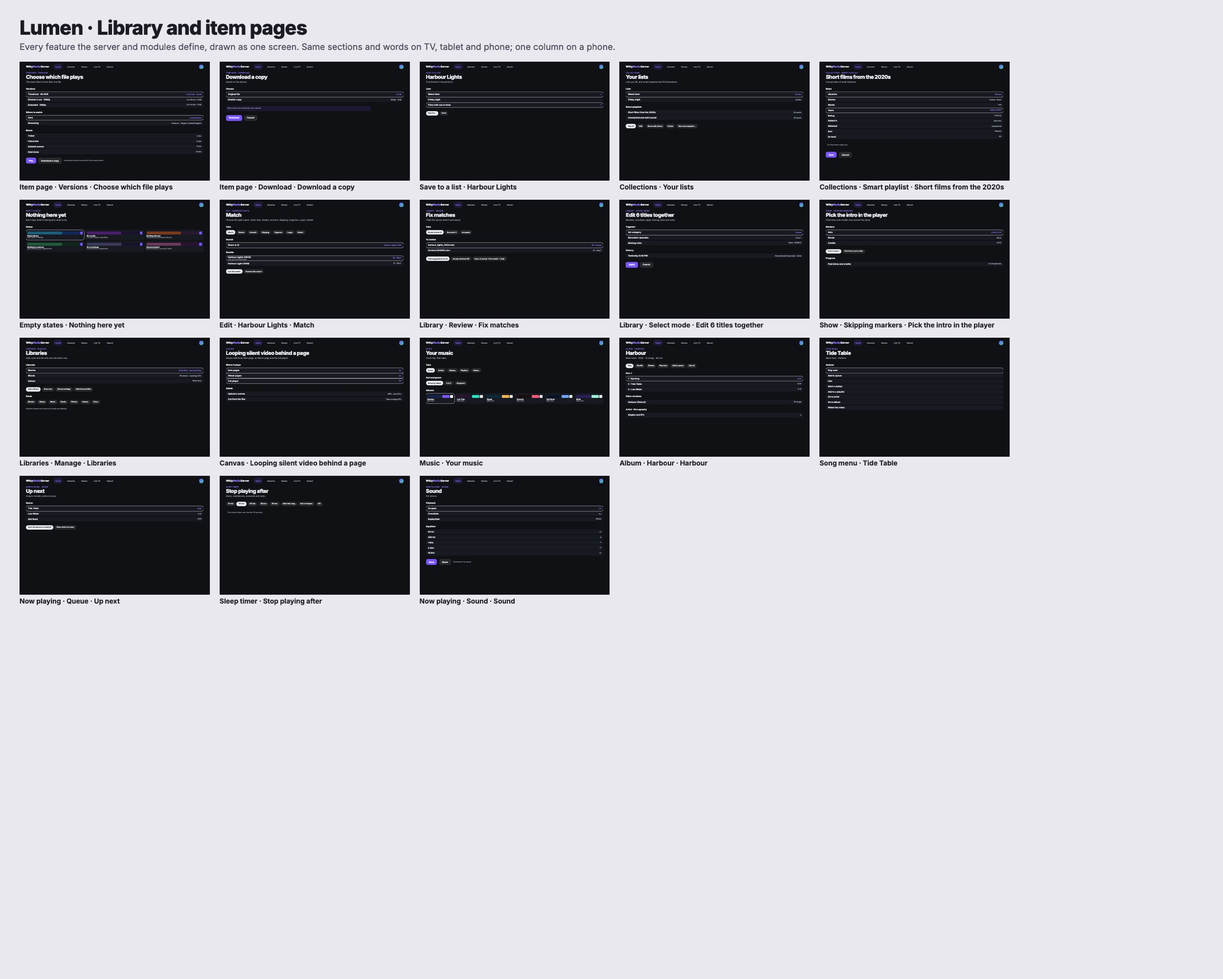
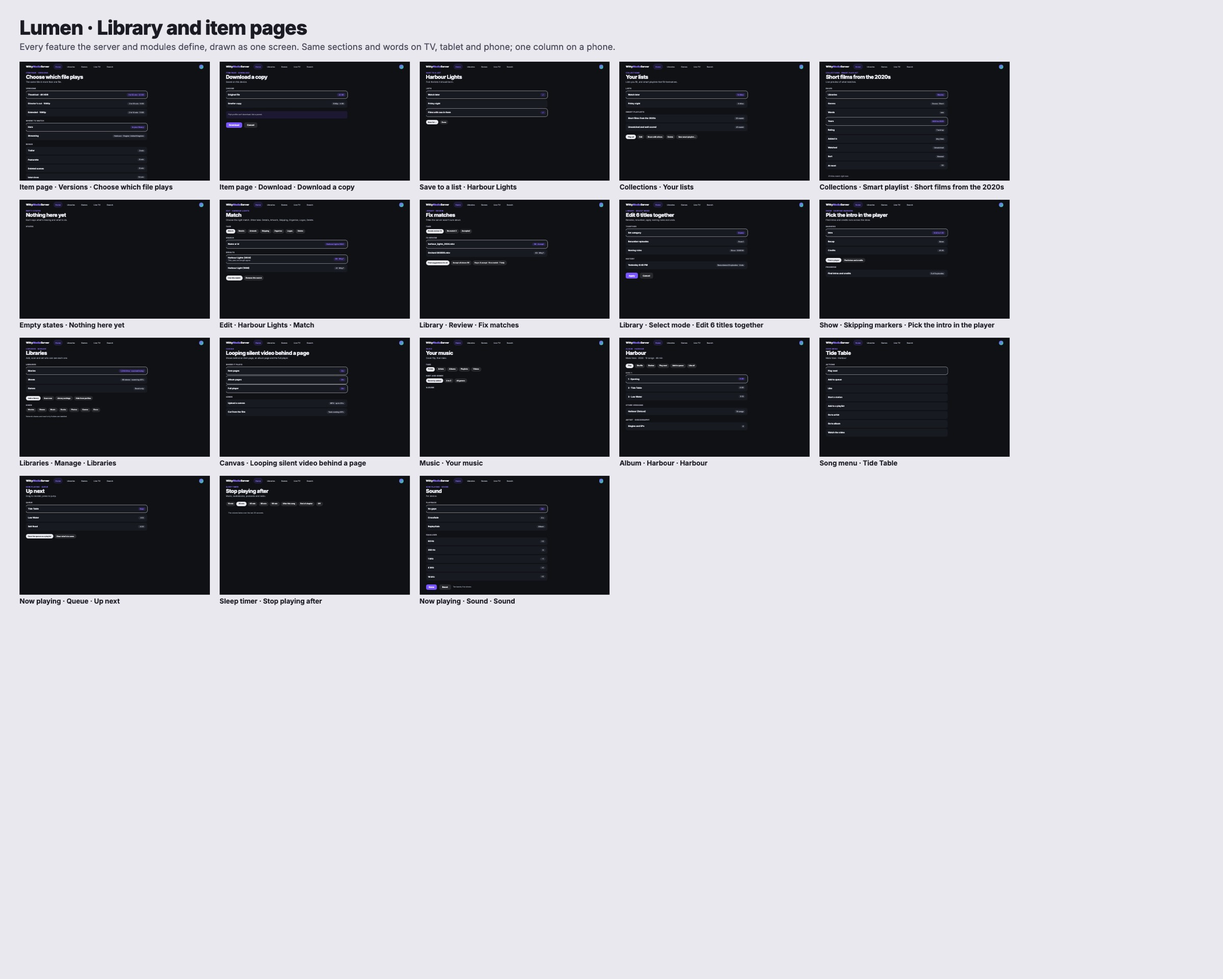
Design 2 canvas: designed Connect screen with peer to peer, layout previews in look pickers, calmer page template

diff --git a/docs/design-2/canvas/Exp.dc.html b/docs/design-2/canvas/Exp.dc.html
@@ -314,18 +314,33 @@ body{margin:0}
         <div style="margin-top:{{gap}}px"><sc-for list="{{songRows}}" as="r" hint-placeholder-count="8"><div style="display:flex;align-items:center;gap:{{gap}}px;height:{{songH}}px;padding:0 {{pad2}}px;margin-bottom:4px;font-size:{{body}}px;{{r.st}}"><span style="width:22px;color:{{r.c2}};font-size:{{small}}px">{{r.n}}</span><span style="flex:none;width:{{thumbH}}px;height:{{thumbH}}px;border-radius:{{thumbR}}px;background:{{r.bg}}"></span><span style="flex:1;min-width:0"><b style="display:block;overflow:hidden;white-space:nowrap;text-overflow:ellipsis">{{r.t}}</b><span style="font-size:{{small}}px;color:{{r.c2}}">{{r.a}}</span></span><span style="width:{{albW}}px;display:{{albD}};overflow:hidden;white-space:nowrap;text-overflow:ellipsis;font-size:{{small}}px;color:{{r.c2}}">{{r.al}}</span><span style="display:{{albD}};font-size:{{small}}px;color:{{r.c2}};width:60px">{{r.pl}}</span><span style="color:{{r.hc}}">{{r.h}}</span><span style="font-size:{{small}}px;color:{{r.c2}};width:40px;text-align:right">{{r.d}}</span></div></sc-for></div>
       </sc-if>
 
+      <sc-if value="{{sConnect}}" hint-placeholder-val="{{false}}">
+        <div style="max-width:{{cnW}};margin:0 auto">
+          <div style="display:flex;align-items:center;font-size:{{h2}}px;font-weight:800;letter-spacing:-.03em;margin-bottom:{{gap2}}px"><sc-for list="{{brand}}" as="p" hint-placeholder-count="3"><span style="{{p.st}}">{{p.t}}</span></sc-for></div>
+          <div style="font-size:{{cnTitleSz}}px;font-weight:800;letter-spacing:-.04em;line-height:1.05;font-family:{{titleFont}}">Choose a server</div>
+          <div style="font-size:{{body}}px;line-height:1.5;color:{{fg2}};margin-top:8px;max-width:940px">Pick a server you’ve used, or one on this network. Away from home? Connect from anywhere below.</div>
+          <div style="{{cnLab}}">Your servers</div>
+          <sc-for list="{{cnServers}}" as="v" hint-placeholder-count="2"><div style="{{v.st}}margin-bottom:10px"><span style="{{v.av}}">{{v.ini}}</span><span style="flex:1;min-width:0"><b style="display:block;font-size:{{body}}px;font-weight:800">{{v.name}}</b><span style="display:block;font-size:{{small}}px;color:{{fg2}};margin-top:2px">{{v.sub}}</span></span><span style="{{v.cs}}">{{v.chip}}</span></div></sc-for>
+          <div style="{{cnLab}}">On this network</div>
+          <sc-for list="{{cnFound}}" as="v" hint-placeholder-count="1"><div style="{{v.st}}"><span style="{{v.av}}">{{v.ini}}</span><span style="flex:1;min-width:0"><b style="display:block;font-size:{{body}}px;font-weight:800">{{v.name}}</b><span style="display:block;font-size:{{small}}px;color:{{fg2}};margin-top:2px">{{v.sub}}</span></span><span style="{{v.cs}}">{{v.chip}}</span></div></sc-for>
+          <div style="{{cnP2p}}">
+            <div style="display:flex;align-items:center;gap:16px"><span style="{{cnIcon}}"><svg width="{{cnSvg}}" height="{{cnSvg}}" viewBox="0 0 24 24" fill="none" stroke="currentColor" style="color:{{accFg}}" stroke-width="1.8" stroke-linecap="round" stroke-linejoin="round"><circle cx="12" cy="12" r="9"></circle><path d="M3 12h18"></path><path d="M12 3c2.6 2.6 3.9 5.6 3.9 9s-1.3 6.4-3.9 9c-2.6-2.6-3.9-5.6-3.9-9S9.4 5.6 12 3z"></path></svg></span><span style="flex:1;min-width:0"><b style="display:block;font-size:{{h2}}px;font-weight:800;letter-spacing:-.02em">Connect from anywhere</b><span style="display:block;font-size:{{body}}px;color:{{fg2}};line-height:1.45;margin-top:4px">Reach your server over the internet with a private peer to peer connection. It’s end to end encrypted, nothing is opened on your router, and only people you invite can join.</span></span></div>
+            <div style="{{cnActsRow}}"><sc-for list="{{cnActs}}" as="a" hint-placeholder-count="3"><span style="{{a.st}}">{{a.t}}</span></sc-for></div>
+          </div>
+        </div>
+      </sc-if>
       <sc-if value="{{sPage}}" hint-placeholder-val="{{false}}">
-        <div style="font-size:{{small}}px;font-weight:700;letter-spacing:.08em;text-transform:uppercase;color:{{accT}}">{{pgEye}}</div>
+        <div style="max-width:{{pgColW}}"><div style="font-size:{{small}}px;font-weight:700;letter-spacing:.08em;text-transform:uppercase;color:{{accT}}">{{pgEye}}</div>
         <div style="font-size:{{h1}}px;font-weight:800;letter-spacing:-.04em;line-height:1.08;margin-top:4px;font-family:{{titleFont}}">{{pgTitle}}</div>
         <div style="font-size:{{body}}px;line-height:1.5;color:{{fg2}};margin-top:6px;max-width:{{pgLeadW}}px">{{pgLead}}</div>
         <sc-for list="{{pgSecs}}" as="sec" hint-placeholder-count="3">
-          <div style="font-size:{{body}}px;font-weight:800;margin:{{gap2}}px 0 {{gap}}px">{{sec.h}}</div>
-          <sc-if value="{{sec.cards}}" hint-placeholder-val="{{false}}"><div style="display:grid;grid-template-columns:repeat({{sec.cols}},minmax(0,1fr));gap:{{pgGap}}px"><sc-for list="{{sec.items}}" as="c" hint-placeholder-count="6"><div style="padding:{{pgCardP}}px;box-sizing:border-box;{{c.st}}"><div style="display:flex;gap:3px;height:{{pgSw}}px"><i style="flex:2;border-radius:5px;background:{{c.bg}}"></i><i style="flex:1;border-radius:5px;background:{{c.bg2}}"></i><i style="width:{{pgSw}}px;border-radius:5px;background:{{c.ac}}"></i></div><div style="font-size:{{small}}px;font-weight:800;margin-top:6px;line-height:1.15">{{c.t}}</div><div style="font-size:{{tiny}}px;opacity:.75;line-height:1.2">{{c.s}}</div></div></sc-for></div></sc-if>
-          <sc-if value="{{sec.rows}}" hint-placeholder-val="{{false}}"><sc-for list="{{sec.items}}" as="r" hint-placeholder-count="5"><div style="display:flex;align-items:center;gap:{{gap}}px;min-height:{{pgRowH}}px;padding:0 {{gap}}px;margin-bottom:5px;font-size:{{body}}px;{{r.st}}"><span style="flex:1;min-width:0"><b style="display:block;font-weight:700">{{r.t}}</b><span style="display:{{r.sd}};font-size:{{tiny}}px;opacity:.7">{{r.s}}</span></span><span style="font-size:{{small}}px;font-weight:700;{{r.vs}}">{{r.v}}</span></div></sc-for></sc-if>
+          <div style="{{pgLab}}">{{sec.h}}</div>
+          <sc-if value="{{sec.cards}}" hint-placeholder-val="{{false}}"><div style="display:grid;grid-template-columns:repeat({{sec.cols}},minmax(0,1fr));gap:{{pgGap}}px"><sc-for list="{{sec.items}}" as="c" hint-placeholder-count="6"><div style="padding:{{pgCardP}}px;box-sizing:border-box;{{c.st}}"><sc-if value="{{c.hasWire}}" hint-placeholder-val="{{false}}"><div style="position:relative;overflow:hidden;border-radius:6px;margin-bottom:6px;height:{{c.th}}px;{{c.tbg}}"><sc-for list="{{c.wire}}" as="w" hint-placeholder-count="14"><i style="position:absolute;{{w.st}}"></i></sc-for></div></sc-if><sc-if value="{{c.hasSw}}" hint-placeholder-val="{{true}}"><div style="display:flex;gap:3px;height:{{pgSw}}px"><i style="flex:2;border-radius:5px;background:{{c.bg}}"></i><i style="flex:1;border-radius:5px;background:{{c.bg2}}"></i><i style="width:{{pgSw}}px;border-radius:5px;background:{{c.ac}}"></i></div></sc-if><sc-if value="{{c.hasIcon}}" hint-placeholder-val="{{false}}"><span style="{{c.icSt}}">{{c.ic}}</span></sc-if><div style="font-size:{{small}}px;font-weight:800;margin-top:6px;line-height:1.15">{{c.t}}</div><div style="font-size:{{tiny}}px;opacity:.75;line-height:1.2">{{c.s}}</div></div></sc-for></div></sc-if>
+          <sc-if value="{{sec.rows}}" hint-placeholder-val="{{false}}"><sc-for list="{{sec.items}}" as="r" hint-placeholder-count="5"><div style="display:flex;align-items:center;gap:{{gap}}px;min-height:{{pgRowH}}px;padding:{{pgRowPadV}}px {{gap}}px;margin-bottom:{{pgRowGap}}px;font-size:{{body}}px;{{r.st}}"><span style="flex:1;min-width:0"><b style="display:block;font-weight:700">{{r.t}}</b><span style="display:{{r.sd}};font-size:{{small}}px;color:{{fg2}};margin-top:2px;line-height:1.35">{{r.s}}</span></span><span style="{{r.vs}}">{{r.v}}</span></div></sc-for></sc-if>
           <sc-if value="{{sec.chips}}" hint-placeholder-val="{{false}}"><div style="display:flex;gap:8px;flex-wrap:wrap"><sc-for list="{{sec.items}}" as="c" hint-placeholder-count="5"><span style="display:inline-flex;align-items:center;height:{{chipH}}px;padding:0 {{gap}}px;font-size:{{small}}px;font-weight:700;{{c.st}}">{{c.t}}</span></sc-for></div></sc-if>
           <sc-if value="{{sec.note}}" hint-placeholder-val="{{false}}"><div style="font-size:{{small}}px;line-height:1.5;color:{{fg2}};max-width:{{pgLeadW}}px;padding:{{pgNoteP}}px;{{sec.nst}}">{{sec.text}}</div></sc-if>
         </sc-for>
-        <div style="display:flex;gap:{{gap}}px;margin-top:{{gap2}}px;align-items:center;flex-wrap:wrap"><sc-for list="{{pgActs}}" as="a" hint-placeholder-count="3"><span style="display:inline-flex;align-items:center;height:{{btnH}}px;padding:0 {{btnP}}px;font-size:{{btnF}}px;font-weight:700;{{a.st}}">{{a.t}}</span></sc-for><span style="font-size:{{small}}px;color:{{fg2}}">{{pgFoot}}</span></div>
+        <div style="display:flex;gap:{{gap}}px;margin-top:{{gap2}}px;align-items:center;flex-wrap:wrap"><sc-for list="{{pgActs}}" as="a" hint-placeholder-count="3"><span style="display:inline-flex;align-items:center;height:{{btnH}}px;padding:0 {{btnP}}px;font-size:{{btnF}}px;font-weight:700;{{a.st}}">{{a.t}}</span></sc-for><span style="font-size:{{small}}px;color:{{fg2}}">{{pgFoot}}</span></div></div>
       </sc-if>
 
       <sc-if value="{{sGuide}}" hint-placeholder-val="{{false}}">
@@ -899,20 +914,41 @@ class Component extends DCLogic {
     const pgChip = (on) => on ? (aero ? glossBtn : (crt ? 'background:#ffff00;color:#000;' : (cable ? 'background:#ffd84a;color:#08125e;' : 'background:' + E.fg + ';color:' + E.bg + ';border-radius:999px;'))) : (aero ? glassItem : (crt ? 'background:#0000a8;color:#fff;' : (cable ? 'background:#0f2bb8;color:#fff;border:2px solid #7f95ff;' : 'background:' + this.hexA('#808080', .22) + ';color:' + E.fg + ';border-radius:999px;')));
     const pgRowSt = (on) => (aero ? glassItem.replace('999px', E.rad + 'px') : 'background:' + (crt ? '#00005a' : (cable ? '#0f2bb8' : E.bg2)) + ';border-radius:' + E.rad + 'px;' + (cable ? 'border:2px solid #4a62d8;' : '')) + (on ? 'box-shadow:0 0 0 ' + ringW + 'px ' + (aero ? E.acc : E.fg) + ';' : '');
     const uiList = [['Lumen', 'Quiet cinema', 'witty'], ['Rail', 'Library first', 'cinema'], ['Stage', 'Streaming', 'midnight'], ['Aero', 'Glossy glass', 'aeroDay'], ['Classic', 'Sidebar', 'witty'], ['Classic Cable', 'Blue listings', 'cable'], ['Classic Satellite', 'Silver bars', 'satellite'], ['Compact', 'Dense lists', 'trueblack'], ['Paper', 'Editorial', 'paper'], ['Marquee', 'Poster carousel', 'cinema'], ['Crossbar', 'Console style', 'evergreen'], ['Big picture', 'Easy to see', 'highcontrast'], ['Dashboard', 'Widgets', 'midnight'], ['Retro', 'Teletext', 'teletext']];
-    const uiCards = (sel) => uiList.map((u, i) => { const t = TH[u[2]]; return { t: u[0], s: u[1] + ' · ' + t.name, bg: t.bg, bg2: t.bg3, ac: t.acc, st: pgCardSt(i === sel) }; });
+    const wireSpec = { Lumen: ['top', 'hero'], Rail: ['rail', 'banner'], Stage: ['top', 'hero'], Aero: ['top', 'hero'], Classic: ['side', 'hero'], 'Classic Cable': ['top', 'list'], 'Classic Satellite': ['top', 'hero'], Compact: [tvp ? 'side' : 'rail', 'list'], Paper: ['top', 'banner'], Marquee: ['top', 'carousel'], Crossbar: ['none', 'cross'], 'Big picture': ['top', 'tiles'], Dashboard: [tvp ? 'side' : 'rail', 'widgets'], Retro: ['top', 'list'] };
+    const wireFor = (name, t) => {
+      const sp = wireSpec[name] || ['top', 'hero'], nav = phone ? 'bottom' : sp[0], mode = sp[1];
+      const W = (l, tp, w, h, bg, r) => ({ st: 'left:' + l + '%;top:' + tp + '%;width:' + w + '%;height:' + h + '%;background:' + bg + ';border-radius:' + (r === undefined ? 3 : r) + 'px;' });
+      const out = [], line = this.hexA(t.fg2 || t.fg, .55), pan = t.bg3, ac = t.acc;
+      let x0 = 4, y0 = 6, x1 = 96, y1 = 94;
+      if (nav === 'top') { out.push(W(0, 0, 100, 12, pan, 0), W(3, 3.5, 10, 5, ac, 2)); [20, 32, 44, 56].forEach((x, i) => out.push(W(x, 4.5, 9, 3, i === 0 ? ac : line, 2))); out.push(W(90, 3.5, 5, 5, line, 5)); y0 = 17; }
+      else if (nav === 'side') { out.push(W(0, 0, 22, 100, pan, 0), W(3, 5, 14, 5, ac, 2)); [20, 31, 42, 53, 64].forEach((y, i) => out.push(W(4, y, 14, 3.5, i === 0 ? ac : line, 2))); x0 = 26; }
+      else if (nav === 'rail') { out.push(W(0, 0, 10, 100, pan, 0), W(2, 5, 6, 8, ac, 3)); [24, 36, 48, 60, 72].forEach((y, i) => out.push(W(2.5, y, 5, 7, i === 0 ? ac : line, 3))); x0 = 14; }
+      else if (nav === 'bottom') { out.push(W(0, 88, 100, 12, pan, 0)); [14, 38, 62, 84].forEach((x, i) => out.push(W(x, 91, 6, 6, i === 0 ? ac : line, 3))); y1 = 85; }
+      else { out.push(W(3, 4, 12, 5, ac, 2)); [34, 44, 54, 64].forEach((x, i) => out.push(W(x, 6, i === 1 ? 8 : 5, i === 1 ? 14 : 9, i === 1 ? ac : line, 20))); y0 = 26; }
+      const cw = x1 - x0, ch = y1 - y0;
+      if (mode === 'hero') { out.push(W(x0, y0, cw, ch * .52, pan, 4), W(x0 + 3, y0 + ch * .34, cw * .2, 6, ac, 3)); const n = 4, g = 2, w = (cw - g * (n - 1)) / n; for (let k = 0; k < n; k++) out.push(W(x0 + k * (w + g), y0 + ch * .58, w, ch * .38, pan, 3)); }
+      else if (mode === 'banner') { out.push(W(x0, y0, cw, ch * .3, pan, 3), W(x0 + 3, y0 + ch * .18, cw * .2, 5, ac, 3)); const n = 5, g = 2, w = (cw - g * (n - 1)) / n; for (let r = 0; r < 2; r++) for (let k = 0; k < n; k++) out.push(W(x0 + k * (w + g), y0 + ch * (.36 + r * .32), w, ch * .26, pan, 3)); }
+      else if (mode === 'carousel') { const mid = x0 + cw / 2; out.push(W(mid - cw * .13, y0 + ch * .08, cw * .26, ch * .72, pan, 4), W(mid - cw * .13, y0 + ch * .08, cw * .26, ch * .72, this.hexA(ac, .25), 4), W(mid - cw * .34, y0 + ch * .2, cw * .17, ch * .5, pan, 4), W(mid + cw * .17, y0 + ch * .2, cw * .17, ch * .5, pan, 4), W(mid - 8, y0 + ch * .9, 4, 3, ac, 3), W(mid, y0 + ch * .9, 4, 3, line, 3), W(mid + 8, y0 + ch * .9, 4, 3, line, 3)); }
+      else if (mode === 'cross') { [14, 30, 46, 62, 78].forEach((x, i) => out.push(W(x0 + cw * x / 100, y0 + (i === 2 ? 0 : 3), i === 2 ? 11 : 8, i === 2 ? 17 : 12, i === 2 ? ac : line, 20))); for (let r = 0; r < 4; r++) out.push(W(x0 + cw * .22, y0 + ch * (.4 + r * .15), cw * .56, ch * .1, r === 0 ? pan : this.hexA(t.bg3, .6), 3)); }
+      else if (mode === 'tiles') { const g = 3, w = (cw - g * 2) / 3; for (let r = 0; r < 2; r++) for (let k = 0; k < 3; k++) out.push(W(x0 + k * (w + g), y0 + r * (ch * .5 + 1), w, ch * .46, k === 0 && r === 0 ? ac : pan, 6)); }
+      else if (mode === 'widgets') { out.push(W(x0, y0, cw * .5, ch * .5, pan, 4), W(x0 + cw * .52, y0, cw * .48, ch * .24, pan, 4), W(x0 + cw * .52, y0 + ch * .26, cw * .48, ch * .24, ac, 4), W(x0, y0 + ch * .53, cw, ch * .22, pan, 4), W(x0, y0 + ch * .78, cw * .3, ch * .2, pan, 4), W(x0 + cw * .32, y0 + ch * .78, cw * .3, ch * .2, pan, 4), W(x0 + cw * .64, y0 + ch * .78, cw * .36, ch * .2, pan, 4)); }
+      else { for (let r = 0; r < 6; r++) { out.push(W(x0, y0 + r * (ch / 6.2), cw * .08, ch / 8, r === 0 ? ac : line, 1), W(x0 + cw * .11, y0 + r * (ch / 6.2), cw * (.5 + (r % 3) * .1), ch / 8, r === 0 ? pan : this.hexA(t.bg3, .7), 1)); } }
+      return out;
+    };
+    const uiCards = (sel) => uiList.map((u, i) => { const t = TH[u[2]]; return { t: u[0], s: u[1] + ' · ' + t.name, bg: t.bg, bg2: t.bg3, ac: t.acc, st: pgCardSt(i === sel), wire: wireFor(u[0], t), hasWire: true, th: Math.round(P.small * (phone ? 7 : 8.5)), tbg: 'background:' + t.bg + ';' }; });
     const thList = [['witty', 'Witty'], ['midnight', 'Midnight'], ['cinema', 'Cinema'], ['evergreen', 'Evergreen'], ['trueblack', 'True black'], ['light', 'Light'], ['paper', 'Paper'], ['highcontrast', 'High contrast'], ['aeroDay', 'Aero Day'], ['aeroAurora', 'Aero Aurora'], ['aeroMeadow', 'Aero Meadow'], ['aeroSunset', 'Aero Sunset'], ['cable', 'Cable blue'], ['satellite', 'Satellite'], ['teletext', 'Teletext']];
     const themeCards = (sel, extra) => thList.map((u, i) => { const t = TH[u[0]]; return { t: u[1], s: t.dark ? 'Dark' : 'Light', bg: t.bg, bg2: t.bg3, ac: t.acc, st: pgCardSt(i === sel) }; }).concat(extra ? [{ t: 'Sunrise', s: 'Imported · by Pip', bg: '#ffe2b8', bg2: '#ffb36b', ac: '#ff6a3d', st: pgCardSt(false) }, { t: 'Import a theme…', s: 'ZIP or theme file', bg: 'transparent', bg2: 'transparent', ac: 'transparent', st: pgCardSt(false) + 'border:2px dashed ' + this.hexA('#808080', .6) + ';' }] : []);
-    const R = (t, v, on, s) => ({ t, v: v || '', s: s || '', sd: s ? 'block' : 'none', st: pgRowSt(on), vs: 'color:' + (on ? E.accT : E.fg2) + ';' });
+    const R = (t, v, on, s) => ({ t, v: v || '', s: s || '', sd: s ? 'block' : 'none', st: pgRowSt(on), vs: 'flex:none;padding:4px 12px;border-radius:999px;font-size:' + P.small + 'px;font-weight:700;display:' + (v ? 'inline-block' : 'none') + ';' + (on ? 'background:' + this.hexA(E.acc, .2) + ';color:' + E.accT + ';' : 'background:' + this.hexA(E.fg, .09) + ';color:' + E.fg2 + ';') });
     const Cc = (t, on) => ({ t, st: pgChip(on) });
     const cols4 = phone ? 2 : (plat === 'tablet' ? 3 : 4);
-    const secC = (h, items, cols) => ({ h, cards: true, rows: false, chips: false, note: false, cols: cols || cols4, items });
+    const secC = (h, items, cols) => ({ h, cards: true, rows: false, chips: false, note: false, cols: cols || cols4, items: items.map((it) => (Object.assign({ hasSw: !!it.bg, hasIcon: !it.bg, ic: (it.t || '?').charAt(0), icSt: 'flex:none;width:' + Math.round(P.small * 2.6) + 'px;height:' + Math.round(P.small * 2.6) + 'px;border-radius:50%;display:flex;align-items:center;justify-content:center;font-size:' + P.body + 'px;font-weight:800;background:' + this.hexA(E.acc, .22) + ';color:' + E.accT + ';' }, it.wire ? it : { wire: [], hasWire: false, th: 0, tbg: '' }, it.wire ? {} : {}))) });
     const secR = (h, items) => ({ h, cards: false, rows: true, chips: false, note: false, cols: 1, items });
     const secP = (h, items) => ({ h, cards: false, rows: false, chips: true, note: false, cols: 1, items });
     const secN = (h, text, tone) => ({ h, cards: false, rows: false, chips: false, note: true, cols: 1, items: [], text, nst: tone ? 'background:' + this.hexA(E.acc, .12) + ';border-radius:' + Math.round(E.rad * 0.7) + 'px;' : '' });
     const stepNames = ['Welcome', 'Account', 'Name and address', 'Look', 'Theme', 'Modules', 'Libraries', 'Details and artwork', 'Live TV', 'Games', 'Discs', 'People and rules', 'Remote access and apps', 'Ready'];
     const stepN = Math.max(1, Math.min(14, parseInt(this.props.step || '4', 10)));
     const setupData = [
-      ['Welcome', 'Let’s set up your server', 'This takes a few minutes. You do it here, in a web browser. Apps can’t connect until it’s finished, and nothing goes online unless you agree.', [secR('Language and region', [R('Language', 'English', true), R('Time zone', 'Eastern Time', false)]), secN('', 'Setup runs in a web browser on any computer or phone on your network. Apps show how to reach this page until you’re done.', true)]],
+      ['Welcome', 'Let’s set up your server', 'This takes a few minutes. You do it here, in a web browser. Apps can’t connect until it’s finished, and nothing goes online unless you agree.', [secR('Region', [R('Time zone', 'Eastern Time', true, 'Used for the TV guide, schedules and recordings')]), secN('', 'Setup runs in a web browser on any computer or phone on your network. Apps show how to reach this page until you’re done.', true)]],
       ['Your account', 'Make the administrator account', 'This account manages the server. You can add everyone else later.', [secR('You', [R('Name', 'Willow', true), R('Username', 'willow', false), R('Password', '••••••••••', false), R('Two-step sign-in', 'Recommended', false, 'Use an authenticator app or a passkey')])]],
       ['Name and address', 'Name your server', 'The name appears in every app. Choose its colours, and what shows in small spaces.', [secR('Name', [R('Server name', 'WittyMediaServer', true), R('Colours', 'Accent on “Media”', false), R('Mark in the rail', 'W', false, 'A letter, initials or a square logo')]), secR('Network', [R('Port', '9797', false), R('Find this server automatically', 'On', true), R('Encrypted connections', 'Off', false, 'Needs a certificate')])]],
       ['Look', 'Choose how it looks', 'A look is the layout, shapes and feel. It works on TVs, phones, tablets, computers and headsets. Colours are a separate choice, next.', [secC('Looks', uiCards(0), phone ? 2 : 5), secN('', 'Each look suggests a theme and a WittyTV look. People can pick their own later, unless you require one.', false)]],
@@ -941,7 +977,7 @@ class Component extends DCLogic {
     const mk = (eye, title, lead, secs, acts, foot) => ({ eye, title, lead, secs, acts: acts || [], foot: foot || '' });
     const A1 = (t) => ({ t, st: primary }), A2 = (t) => ({ t, st: secondary });
     const gp = {
-      connect: mk('Welcome', 'Choose your server', 'Saved servers come first. Servers found on your network are below.', [secR('Saved', [R('WittyMediaServer', 'Last used', true, 'Living room · 192.168.1.20 · Willow'), R('Gran’s server', '', false, 'From away · peer to peer')]), secR('Found on this network', [R('Basement NAS', '', false, '192.168.1.31')]), secP('', [Cc('Enter an address', false), Cc('Join from away', false), Cc('Scan a QR code', false)]), secR('On this device', [R('Show saved servers first', 'On', true), R('Forget a server', '', false, 'Removes its sign-in and downloads from this device')])], [A1('Connect')], ''),
+      connect: mk('Welcome', 'Choose your server', 'Saved servers come first, then servers on this network. Not at home? Connect to a remote server from anywhere with peer to peer.', [secR('Saved', [R('WittyMediaServer', 'Last used', true, 'Living room · 192.168.1.20 · Willow'), R('Gran’s server', 'From away', false, 'Peer to peer · remote')]), secR('Found on this network', [R('Basement NAS', '', false, '192.168.1.31')]), secC('Connect to a remote server', [{ t: 'Join with a link or code', s: 'Paste the invite you were sent', bg: '#14224a', bg2: '#2f6fed', ac: '#fff', st: pgCardSt(true) }, { t: 'Scan a QR code', s: 'From the server’s Away page', bg: '#0d2a3a', bg2: '#2de2c4', ac: '#fff', st: pgCardSt(false) }, { t: 'Enter an address', s: 'Your own domain or IP', bg: '#2a1230', bg2: '#7955ff', ac: '#fff', st: pgCardSt(false) }], phone ? 1 : 3), secN('', 'Peer to peer connects your device straight to your server, end to end encrypted. Nothing is opened on your router, and only people you invite can join.', true), secR('On this device', [R('Show saved servers first', 'On', true), R('Forget a server', '', false, 'Removes its sign-in and downloads from this device')])], [A1('Connect')], 'You can also reach this from You > From away once you are signed in.'),
       away: mk('You · From away', 'Reach your server from anywhere', 'A private, peer-to-peer connection between your devices. Nothing is opened on your router.', [secR('Connection', [R('Peer to peer', 'On', true, 'Between your devices, end to end encrypted'), R('Connected to', 'WittyMediaServer', false, 'Direct · 24 ms')]), secP('Invite someone', [Cc('Create an invite link', true), Cc('Show a QR code', false)]), secP('Join', [Cc('Paste a link or code', false), Cc('Scan a QR code', false)]), secN('', 'Only people you invite can join. You can end an invite or remove a device at any time.', true)], [A1('Done')], ''),
       mismatch: mk('Careful', 'This isn’t the server you used before', 'The address is the same, but the server’s identity changed. This can happen after a reinstall, or if someone is pretending to be your server.', [secR('Identity', [R('Saved', 'a4f2 · 91c0', false), R('Now', '77be · 02d4', true)]), secN('', 'Only continue if you reinstalled or restored this server yourself.', true)], [A2('Go back'), A1('Trust this server')], ''),
       pairing: mk('Sign in a TV', 'Enter the code on your TV', 'Open WittyMediaServer on the TV, choose Sign in with a code, and type what it shows.', [secR('Code', [R('Code', '4 8 1 • 2 0 6', true), R('Signing in as', 'Pip', false, 'Kids profile · Lumen look, Cinema theme (required)')]), secP('', [Cc('Approve', true), Cc('Not this TV', false)]), secN('', 'The code works once, for five minutes.', false)], [], ''),
@@ -1092,6 +1128,23 @@ class Component extends DCLogic {
       roomopen: mk('WittyPlay · Your room', 'Open your room to friends', 'Star Tide · 2 of 4 seats', [secR('Room', [R('Code', 'TIDE-4821', true), R('Open to', 'Friends', false), R('Seats', '2 of 4', false), R('Mode', 'Shared', false)]), secP('', [Cc('Invite a friend', true), Cc('Show QR join link', false), Cc('Close the room', false)]), secR('Players', [R('Player 1 · Willow', 'Gamepad', true), R('Player 2', 'Waiting…', false)])], [], 'A phone joins a seat from the QR link and becomes a controller.'),
       keepshot: mk('WittyPlay · Memories', 'Keep this screenshot', 'Saved to Memories with the game and the time.', [secR('Screenshot', [R('Star Tide', 'Just now', true)]), secP('', [Cc('Keep', true), Cc('Not now', false)]), secR('In Memories', [R('SHOT · Moth Racer', 'This week', false), R('SAVE · Salt Road Kart', 'This week', false)]), secP('Manage', [Cc('Delete this memory', false)])], [], 'Deleting a memory asks first.')
     };
+    const cnW = phone ? 'none' : (tvp ? '1240px' : '780px'), cnR = phone ? 18 : 22;
+    const cnLine = this.hexA(E.fg, .12), cnPanel = E.bg2;
+    const cnRow = (on) => 'display:flex;align-items:center;gap:' + (phone ? 12 : 16) + 'px;padding:' + (tvp ? 14 : (phone ? 12 : 14)) + 'px ' + (tvp ? 24 : (phone ? 14 : 18)) + 'px;border-radius:' + cnR + 'px;background:' + cnPanel + ';box-sizing:border-box;' + (on ? 'box-shadow:0 0 0 ' + ringW + 'px ' + (aero ? E.acc : E.fg) + ';' : 'box-shadow:inset 0 0 0 1px ' + cnLine + ';');
+    const cnAv = (c) => 'flex:none;width:' + (tvp ? 64 : (phone ? 44 : 52)) + 'px;height:' + (tvp ? 64 : (phone ? 44 : 52)) + 'px;border-radius:50%;display:flex;align-items:center;justify-content:center;font-size:' + (tvp ? 26 : 20) + 'px;font-weight:800;color:' + E.accFg + ';background:' + c + ';';
+    const cnChip = (hi) => 'flex:none;padding:5px 12px;border-radius:999px;font-size:' + P.small + 'px;font-weight:700;' + (hi ? 'background:' + this.hexA(E.acc, .2) + ';color:' + E.accT + ';' : 'background:' + this.hexA(E.fg, .09) + ';color:' + E.fg2 + ';');
+    const cnServers = [
+      { ini: 'W', name: 'WittyMediaServer', sub: 'Living room · 192.168.1.20 · signed in as Willow', chip: 'Home network', dot: '#3ad29f', st: cnRow(true), av: cnAv(E.acc), cs: cnChip(false) },
+      { ini: 'G', name: 'Gran’s server', sub: 'From anywhere · last connected yesterday', chip: 'Peer to peer', dot: '#7fb2ff', st: cnRow(false), av: cnAv('#4a8bff'), cs: cnChip(true) }
+    ];
+    const cnFound = [{ ini: 'B', name: 'Basement NAS', sub: '192.168.1.31 · found just now', chip: 'Connect', dot: '#3ad29f', st: cnRow(false), av: cnAv('#7a7f8a'), cs: cnChip(true) }];
+    const cnBtn = (kind) => 'display:flex;align-items:center;justify-content:center;gap:10px;flex:' + (phone ? 'none' : '1') + ';min-width:0;height:' + (tvp ? 64 : (phone ? 52 : 52)) + 'px;border-radius:' + (phone ? 14 : 16) + 'px;font-size:' + (tvp ? 24 : P.body) + 'px;font-weight:800;box-sizing:border-box;' + (kind === 'p' ? 'background:' + E.acc + ';color:' + E.accFg + ';' : 'background:' + this.hexA(E.fg, .1) + ';color:' + E.fg + ';box-shadow:inset 0 0 0 1px ' + this.hexA(E.fg, .16) + ';');
+    const cnActs = [{ t: 'Join with a link or code', st: cnBtn('p') + (tvp ? 'box-shadow:0 0 0 ' + ringW + 'px ' + E.fg + ';' : '') }, { t: 'Scan a QR code', st: cnBtn('s') }, { t: 'Enter an address', st: cnBtn('s') }];
+    const cnP2p = 'margin-top:' + (phone ? 22 : (tvp ? 22 : 30)) + 'px;padding:' + (tvp ? 24 : (phone ? 18 : 26)) + 'px;border-radius:' + (cnR + 4) + 'px;box-sizing:border-box;background:linear-gradient(135deg,' + this.hexA(E.acc, .28) + ',' + this.hexA(E.acc, .06) + ' 70%);box-shadow:inset 0 0 0 1px ' + this.hexA(E.acc, .45) + ';';
+    const cnIcon = 'flex:none;width:' + (tvp ? 72 : (phone ? 46 : 56)) + 'px;height:' + (tvp ? 72 : (phone ? 46 : 56)) + 'px;border-radius:50%;display:flex;align-items:center;justify-content:center;background:' + E.acc + ';';
+    const cnLab = 'font-size:' + P.small + 'px;font-weight:800;letter-spacing:.09em;text-transform:uppercase;color:' + E.fg2 + ';margin:' + (phone ? 22 : (tvp ? 16 : 28)) + 'px 0 8px;';
+    const cnActsRow = 'display:flex;gap:12px;margin-top:20px;flex-direction:' + (phone ? 'column' : 'row') + ';';
+    const cnTitleSz = tvp ? 48 : (phone ? 30 : 40);
     const gapKinds = Object.keys(gp);
     if (gapKinds.indexOf(scr) >= 0) { const d = gp[scr]; pgPage = { eye: d.eye, title: d.title, lead: d.lead, secs: d.secs, acts: d.acts, foot: d.foot }; }
     const steps = stepNames.map((t, i) => ({ t, n: i + 1, st: i + 1 === stepN ? 'background:' + A(.16) + ';color:' + E.accT + ';border-radius:' + Math.round(E.rad * 0.7) + 'px;' : (i + 1 < stepN ? 'color:' + E.fg + ';' : 'color:' + E.fg2 + ';'), dot: i + 1 < stepN ? 'background:' + E.acc + ';color:' + E.accFg + ';' : (i + 1 === stepN ? 'background:' + E.accT + ';color:' + E.bg + ';' : 'background:' + this.hexA('#808080', .3) + ';') }));
@@ -1255,14 +1308,14 @@ class Component extends DCLogic {
       npArt: P.npArt, npArt2: P.npArt2, games, gameW: P.gameW,
       chGap: Math.round(P.gap * 0.6), logoW, logoH, logoR: Math.max(3, Math.round(logoH * 0.14)), logoF: Math.max(9, Math.round(logoH * 0.34)), nameDisp: phone ? 'none' : '-webkit-box', cellP: Math.round(P.gap * 0.6), logoBW, logoBH, logoBF: Math.max(11, Math.round(logoBH * 0.19)), logoBig: 'background:linear-gradient(135deg,#0f2a5a,#1f6f9f);color:#ffd84a;',
       tvActs, mCastW: tvp ? 90 : P.castW, descW, descLines, mW, mH, mX, mY, mPad, mStyle, mBtnQuiet, mActs, mTabs, mCols, mCast, trW, trH, trP, trP2, mTrailers, mWhere, mRowH, mIc, mPosW, mPosH, wBadge, wMiniW, wBanX, wBanY, wBanSt, wMiniSt, wMini, wMiniH, wActs,
-      pgEye: pgPage.eye, pgTitle: pgPage.title, pgLead: pgPage.lead, pgSecs: pgPage.secs, pgActs: pgPage.acts, pgFoot: pgPage.foot, pgLeadW: Math.round(cw * 0.8), pgGap: Math.round(P.gap * 0.7), pgCardP: Math.round(P.gap * 0.6), pgSw: Math.round(P.small * 1.6), pgRowH: Math.round(P.viewH * 0.8), pgNoteP: Math.round(P.gap * 0.7), steps, stepW, stepTop: brH + P.gap2, stepH: Math.round(P.small * 2.2), stepDot: Math.round(P.small * 1.5), stepDisp: phone ? 'none' : 'block', brH, urlW: Math.round(ww * 0.4), urlH: Math.round(P.small * 1.5), blkW: Math.round(ww * 0.6), blkCard: pgCardSt(false), qrS: Math.round(P.btnH * 2), qrC: Math.max(6, Math.round(P.btnH * 0.2)),
+      pgEye: pgPage.eye, pgTitle: pgPage.title, pgLead: pgPage.lead, pgSecs: pgPage.secs, pgActs: pgPage.acts, pgFoot: pgPage.foot, pgLeadW: Math.round(cw * 0.8), pgGap: Math.round(P.gap * 0.7), pgCardP: Math.round(P.gap * 0.6), pgSw: Math.round(P.small * 1.6), pgRowH: Math.round(P.viewH * 0.8), pgNoteP: Math.round(P.gap * 1.1), pgColW: phone ? 'none' : (tvp ? Math.round(cw * 0.78) + 'px' : Math.min(Math.round(cw * 0.7), 920) + 'px'), pgLab: 'font-size:' + P.small + 'px;font-weight:800;letter-spacing:.09em;text-transform:uppercase;color:' + E.fg2 + ';margin:' + (phone ? 24 : P.gap2) + 'px 0 ' + Math.round(P.gap * 0.6) + 'px;', pgRowPadV: Math.round(P.gap * (tvp ? 0.7 : 0.75)), pgRowGap: Math.round(P.gap * 0.5), pgValPill: 'flex:none;padding:4px 12px;border-radius:999px;font-size:' + P.small + 'px;font-weight:700;background:' + this.hexA(E.fg, .09) + ';', steps, stepW, stepTop: brH + P.gap2, stepH: Math.round(P.small * 2.2), stepDot: Math.round(P.small * 1.5), stepDisp: phone ? 'none' : 'block', brH, urlW: Math.round(ww * 0.4), urlH: Math.round(P.small * 1.5), blkW: Math.round(ww * 0.6), blkCard: pgCardSt(false), qrS: Math.round(P.btnH * 2), qrC: Math.max(6, Math.round(P.btnH * 0.2)),
       pvW, pvH, tvBg, tvInfo: tvInfoColor, tvAcc, tvDim, tvName: T.name + ' look · Ch 4 · Harbour Network', tvTitleFont: T.titleFont || E.titleFont, tvFont: T.font, gridTop: pvH + P.gap2, tvHead: P.tvHead, tvHeadStyle: T.head || '', tvToday: tvKey === 'teletext' || tvKey === 'classic' ? 'THU 12' : 'Today', chW: P.chW, chN: P.chN, tvTimes, tvRowH, tvRowGap: P.tvRowGap, tvChanStyle: T.chan || 'color:' + (T.fg || E.fg) + ';', tvRows, nowX: P.chW + 42 * ppm, nowC, tvDock, dockBtn: P.dockBtn, keyW2: P.keyW || 18,
       sPlayerPad: 0, topPad: P.topPad + (phone ? 12 : 8), skipY: Math.round(hh * 0.3), ctlY: Math.round(P.pad * 0.8), seekH: P.seekH, knob: P.knob, knobH: Math.round(P.knob / 2), ctl, ctlS: P.ctlS, ctlP: P.ctlP, ctlR: P.ctlR,
       signBg, signTop: P.signTop, signBrand: P.signBrand, profiles, avBig: P.avBig,
       bbX: aero ? 14 : 0, bbY: aero ? 12 : 0, bbH: 64, bbStyle: aero ? 'border-radius:999px;background:linear-gradient(180deg,' + gl.hi + ',' + gl.lo + ');border:1px solid ' + gl.bd + ';box-shadow:0 4px 16px ' + gl.sh + ';' : 'background:' + E.bg2 + ';box-shadow:0 -1px 0 ' + this.hexA('#808080', .3) + ';',
       showDock, dock, dockY: P.dockY, dockH: P.dockH, keyW: P.keyW, keyF: P.keyF,
       sPlayerAny: isPlayer, crewChips, crewDepts, crewAv, showAllSt, visChips, visChipsF, lyrChips, kBg, kGlow, kCanvasOn, kVizOn, kFollow, kRead, kMixOn, kTimeOn, kMixNote, kTitleChip, kChipsY, kReadX, kReadBot, kReadF, kReadLines, kTag, kTagY, kTagD, npBg, npCanvasD, npVizD, npTag, npTagD, vzExtras, songChips, songRows, songH, albW, albD, miniH, miniArt, miniB, miniBot, miniSt, miniBtns, miniBarD, kBtn, kChip, kLines, kLyrY: kLyrY2, kLineGap, kMix, kMixW, vzR, vzR2, vzR3, vzR4, vzB, vzBot, vzPresets, vzSliders, sRemote: scr === 'remote' || scr === 'remoteDvd' || scr === 'remoteVideo', pBtn, pTop, pStrip, pStripLabel, pDiscNote, rbtns, rbtnsAll, rbH, rbP, rbF, stripY, stripR: P.ctlR + 6, gapS: Math.round(P.gap * 0.5), ctlMain, ctlRight, pTitle, pMeta, pSkip, bubY: P.seekH + 12, bubW: Math.round(P.thumbW * 1.5), bubH: Math.round(P.thumbH * 1.1), rPos, rPad: Math.round(14 * rsc), rPadX: Math.round(12 * rsc), rPad2: Math.round(16 * rsc), rR1: phone ? 22 : Math.round(26 * rsc), rR2: phone ? 0 : Math.round(34 * rsc), rGap, rGap2, rGap4, rKeyBase, rRound, rBrandF, rKeyF, rLabel, rEjectSt, pBackSt, rSheet, rTabP: Math.round(5 * rsc), rTabX: Math.round(12 * rsc), rTab1, rTab2, rKeysOn, rDigitsOn, rMenus, rMidDisp: 'flex', rDpad, rDisDpad: remKind === 'video' ? 'opacity:.35;' : '', rFocus: (tvp || vr || phone) ? 'box-shadow:0 0 0 3px #15171c,0 0 0 6px #fff;' : '', rTracks, rTrans4, rTrans3, rDigits, rDigitR: Math.round(12 * rsc), rColours, rColH: Math.round(22 * rsc * (tvp ? 1.4 : 1)), rNoteF: Math.round(9 * rsc * (phone ? 1.2 : 1)), rNote, rPill: Math.round(rKeyH / 2),
-      sPage: isPage, sSetup: scr === 'setup', sBlock: scr === 'setupblock', sSongs: scr === 'songs', sMini: scr === 'songs' || scr === 'nowplaying', sKaraoke: scr === 'karaoke' || scr === 'lyrics', sVizFull: scr === 'vizfull', sReader: scr === 'reader', sReaderAny: scr === 'reader' || scr === 'pdf', sComics: scr === 'comics', sPhotos: scr === 'photos', sStats: scr === 'stats', sViz: scr === 'viz', sFiles: scr === 'files', sDisc: scr === 'disc', sCd: scr === 'cd', sCouch: scr === 'couch',
+      sPage: isPage && scr !== 'connect', sConnect: scr === 'connect', cnW, cnServers, cnFound, cnActs, cnP2p, cnIcon, cnLab, cnActsRow, cnTitleSz, cnDot: tvp ? 14 : 10, cnSvg: tvp ? 42 : (phone ? 26 : 32), sSetup: scr === 'setup', sBlock: scr === 'setupblock', sSongs: scr === 'songs', sMini: scr === 'songs' || scr === 'nowplaying', sKaraoke: scr === 'karaoke' || scr === 'lyrics', sVizFull: scr === 'vizfull', sReader: scr === 'reader', sReaderAny: scr === 'reader' || scr === 'pdf', sComics: scr === 'comics', sPhotos: scr === 'photos', sStats: scr === 'stats', sViz: scr === 'viz', sFiles: scr === 'files', sDisc: scr === 'disc', sCd: scr === 'cd', sCouch: scr === 'couch',
       setW2: phone ? 110 : Math.round(P.setW * 0.85), gap3: Math.round(P.gap2 * 1.4), lineH: Math.max(4, Math.round(P.body * 0.45)), lineGap: Math.round(P.body * 0.85), lineC, chapters, leftTitle, leftList, leftTW, leftTH, leftH, leftF, notes, notesW, notesDisp, chipOn, chipOff, pageStyle, lines,
       panels, panelW, panelH, thumbs, thumbW2, thumbH2, mosaic, scrubW: phone ? 34 : 56, statTiles, wstS, bars, barsH: Math.round(Math.max(80, ch * 0.25)), vizBars, accDim, tree, files, rowS: Math.round(P.viewH * 0.75), discMenu, discW: Math.round(P.tileW * 0.9), remW: Math.round(P.tileW * 0.7), devices
     };

diff --git a/docs/design-2/README.md b/docs/design-2/README.md
@@ -83,3 +83,7 @@ Use the pictures as the reference: the same screen, at the same size, in the sam
 - Theme ids are lower case. Witty, True black and High contrast keep their older ids (`default`, `oled`, `contrast`); the new ones are `aeroday`, `aeroaurora`, `aeromeadow`, `aerosunset`, `cable`, `satellite` and `teletext`.
 - During first run `/capabilities` stays open so apps can read `setupRequired` and show where to finish setup.
 - The server's name logo is PNG or JPEG for now.
+
+## Layout previews and the Connect screen
+
+Look pickers show a wireframe of each look's layout, not only colours (`wireFor`/`wireSpec` in `canvas/Exp.dc.html`; the server's `wire` descriptor is the same data). Peer to peer is a prominent "Connect from anywhere" panel on the Connect screen and on You, From away.
